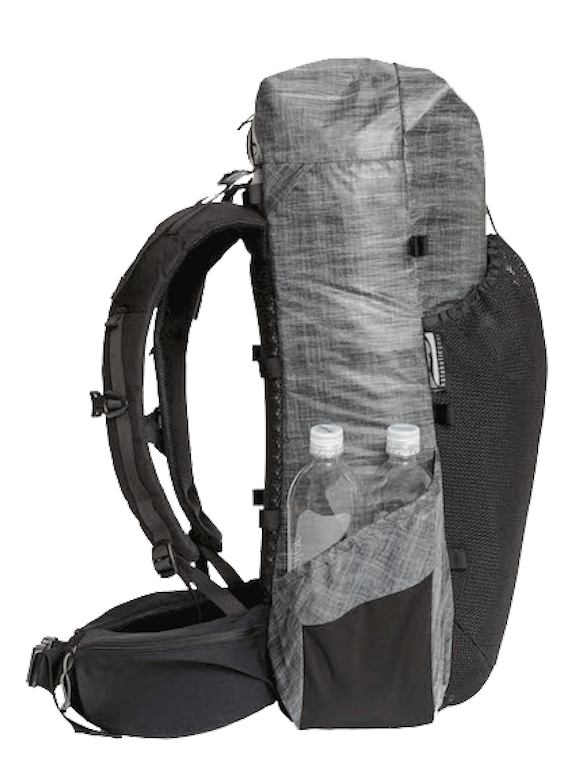
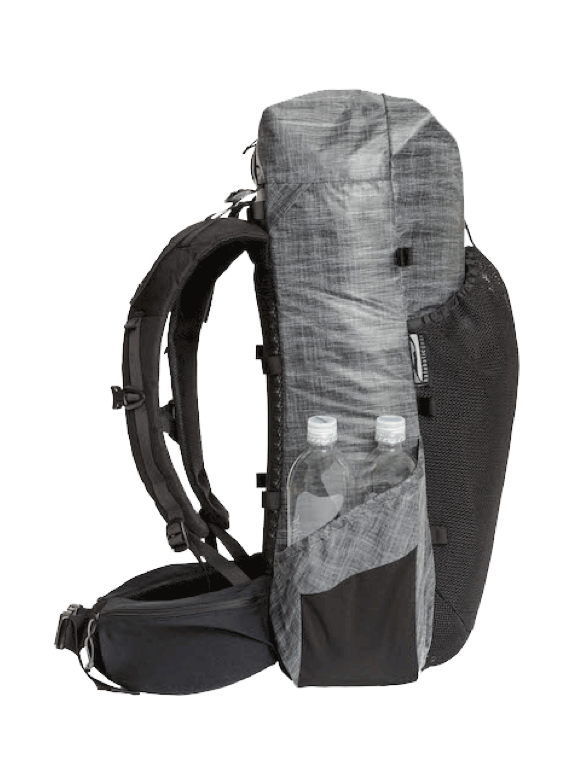
more css cleaned up, image sizes for carousel adjusted

diff --git a/client/components/productDetails.jsx b/client/components/productDetails.jsx
@@ -45,24 +45,24 @@ class ProductDetails extends React.Component {
     console.log('product details render, this.props.currentProduct', this.props.currentProduct)
     console.log('product details render, product: ', product)
     return (
-      <div className="product-details container">
+      <div className="product-details container pb-5">
         <div className="pt-4 row h-100 justify-content-between overflow-auto">
 
           
           
           <div className="col-6 carousel-container">
-            <Carousel interval={5000}>
+            <Carousel interval={null}>
               {
                 product.image_urls.map( (element, index) => {
                   return(
                     <Carousel.Item key={index}>
                     <img
-                      className="d-block w-100"
+                      className="d-block w-100 h-100"
                       src={'../' + element}
                       alt="First slide"
                     />
                     <Carousel.Caption>
-                      <h3>{index + 1}</h3>
+                      
                       <p></p>
                     </Carousel.Caption>
                   </Carousel.Item>
@@ -71,12 +71,13 @@ class ProductDetails extends React.Component {
               }
             </Carousel>
           </div>
-          <div className="col-4 row align-items-center">
+          <div className="col-4 row flex-direction-column">
             <div >
               <h2 className="">{product.name}</h2>
               <h6>by {product.brand}</h6>
+              <div className="align-self-center">{product.short_description}</div>
             </div>
-            <div className="align-self-center">{product.short_description}</div>
+            
             <Table className="flat no-border" striped bordered hover>
               <thead>
               </thead>

diff --git a/client/components/productList.jsx b/client/components/productList.jsx
@@ -28,16 +28,16 @@ class ProductList extends React.Component {
           console.log('mapping this.props.products, element:, ', element)
           let imgURL = element.image_urls[0]
           return (
-            <Link className="col-lg-4 col-med-6 col-sm-12 p-2 remove-a-tag-style" 
+            <Link className="col-lg-4 col-med-6 col-sm-12 p-2 remove-a-tag-style " 
               key={element.product_uuid} 
               to={`/details/${element.product_uuid}`}
               data-uuid={element.product_uuid}
               onClick={ e =>{ this.props.setCurrentProduct(element) }}
             >
-              <div className="card">
+              <div className="card rounded-0">
                 <div className="card-header bg-transparent border-success">{element.name}</div>
-                <img src={imgURL} alt="" className="card-img-top img-fluid preview-image align-self-center pt-1" />
-                <div className="card-body">
+                <img src={imgURL} alt="" className="card-img-top img-fluid preview-image align-self-center pt-4 pb-4" />
+                <div className="card-body pb-4">
                   <div className="card-text ">{element.short_description}</div>
                 </div>
                 <div className="card-footer">
@@ -53,10 +53,11 @@ class ProductList extends React.Component {
 
   render(){
     return (
-      <div className="product-list-main container">
-        <h1 className="col-12">Products list</h1>
+      <div className="product-list-main container pt-4">
+        <h1 className="">Products list</h1>
        
-          <div className=" col-12 card-deck justify-content-between border rounded p-3 mb-2">
+          <div className=" col-12 card-deck justify-content-between   p-3 mb-2">
+          
             { this.generateProductList() }
           
         </div>

diff --git a/client/components/header.jsx b/client/components/header.jsx
@@ -46,7 +46,7 @@ class Header extends React.Component {
             <Navbar.Brand className="row col-3" href="#home">
               <div className="logo pr-3 pl-3 col-4"></div>
               <Nav className="col-2">
-                <Nav.Link href="#home">
+                <Nav.Link href="/home">
                   <Link className="btn" to="/">
                     <div className="h4">UltraLite</div>
                     
@@ -57,12 +57,8 @@ class Header extends React.Component {
             <Navbar.Toggle aria-controls="basic-navbar-nav" />
             <Navbar.Collapse className=" col-9 flex-start-end justify-content-end" id="basic-navbar-nav">
               <Nav className="mr-auto">
-                
-                
-                
                   <Link className="btn font-weight-bold" to="/products">Products</Link>
-                
-                
+                  <Link className="btn font-weight-bold" to="/our-story">Our Story</Link>
               </Nav>
                 <Link className="btn font-weight-bold" to="/cart">
                   <div className="cart-logo-count-bg row">

diff --git a/client/components/footer.jsx b/client/components/footer.jsx
@@ -16,7 +16,7 @@ export default function Footer (props){
     return (
       
         
-        <Navbar className="border rounded w-100 p-auto pt-8 mt-8"  bg="dark" expand="md">
+        <Navbar className="border rounded w-100 p-auto mt-8"  bg="dark" expand="md">
           <Navbar.Brand href="#home">React-Bootstrap</Navbar.Brand>
           <Navbar.Toggle aria-controls="basic-navbar-nav" />
           <Navbar.Collapse id="basic-navbar-nav">

diff --git a/client/components/styles/product_details_style.css b/client/components/styles/product_details_style.css
@@ -1,6 +1,8 @@
 .carousel{
-    /* height: 760px;
-    width: 570px; */
+    height: 760px;
+    width: 570px; 
+    background-image: contain;
+    align-items: center;
 }
 
 .carousel-control-prev-icon,
